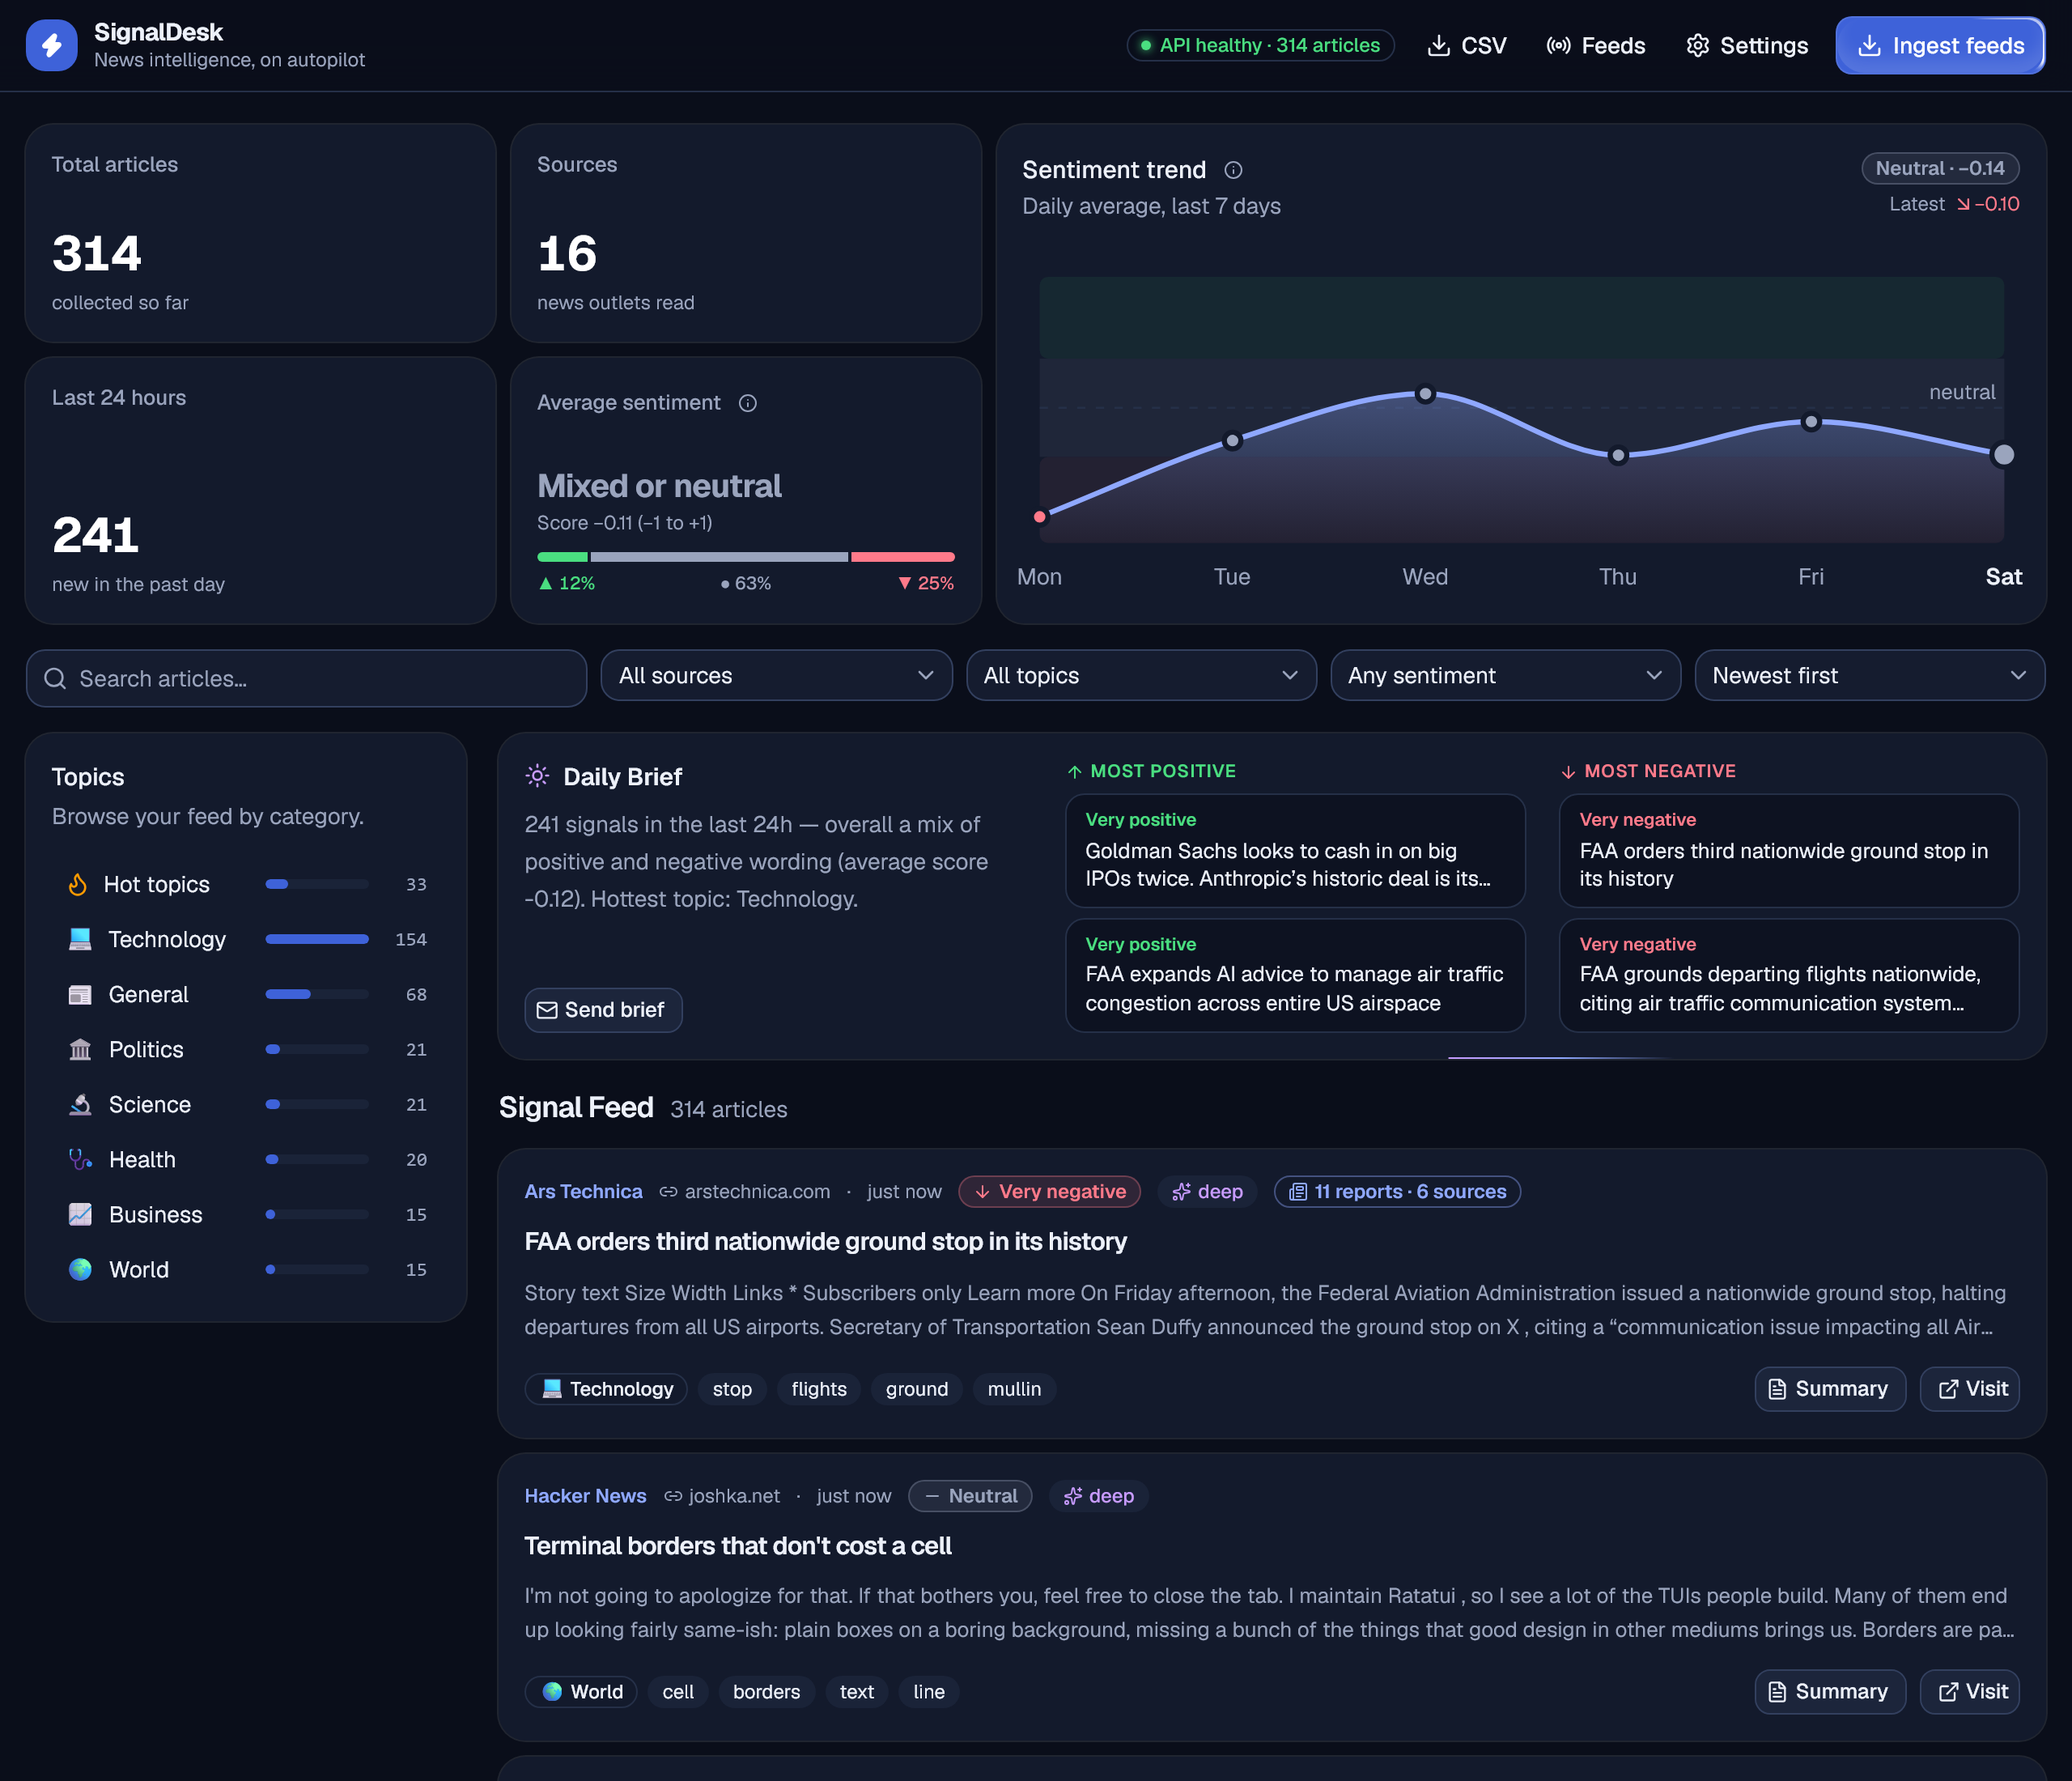
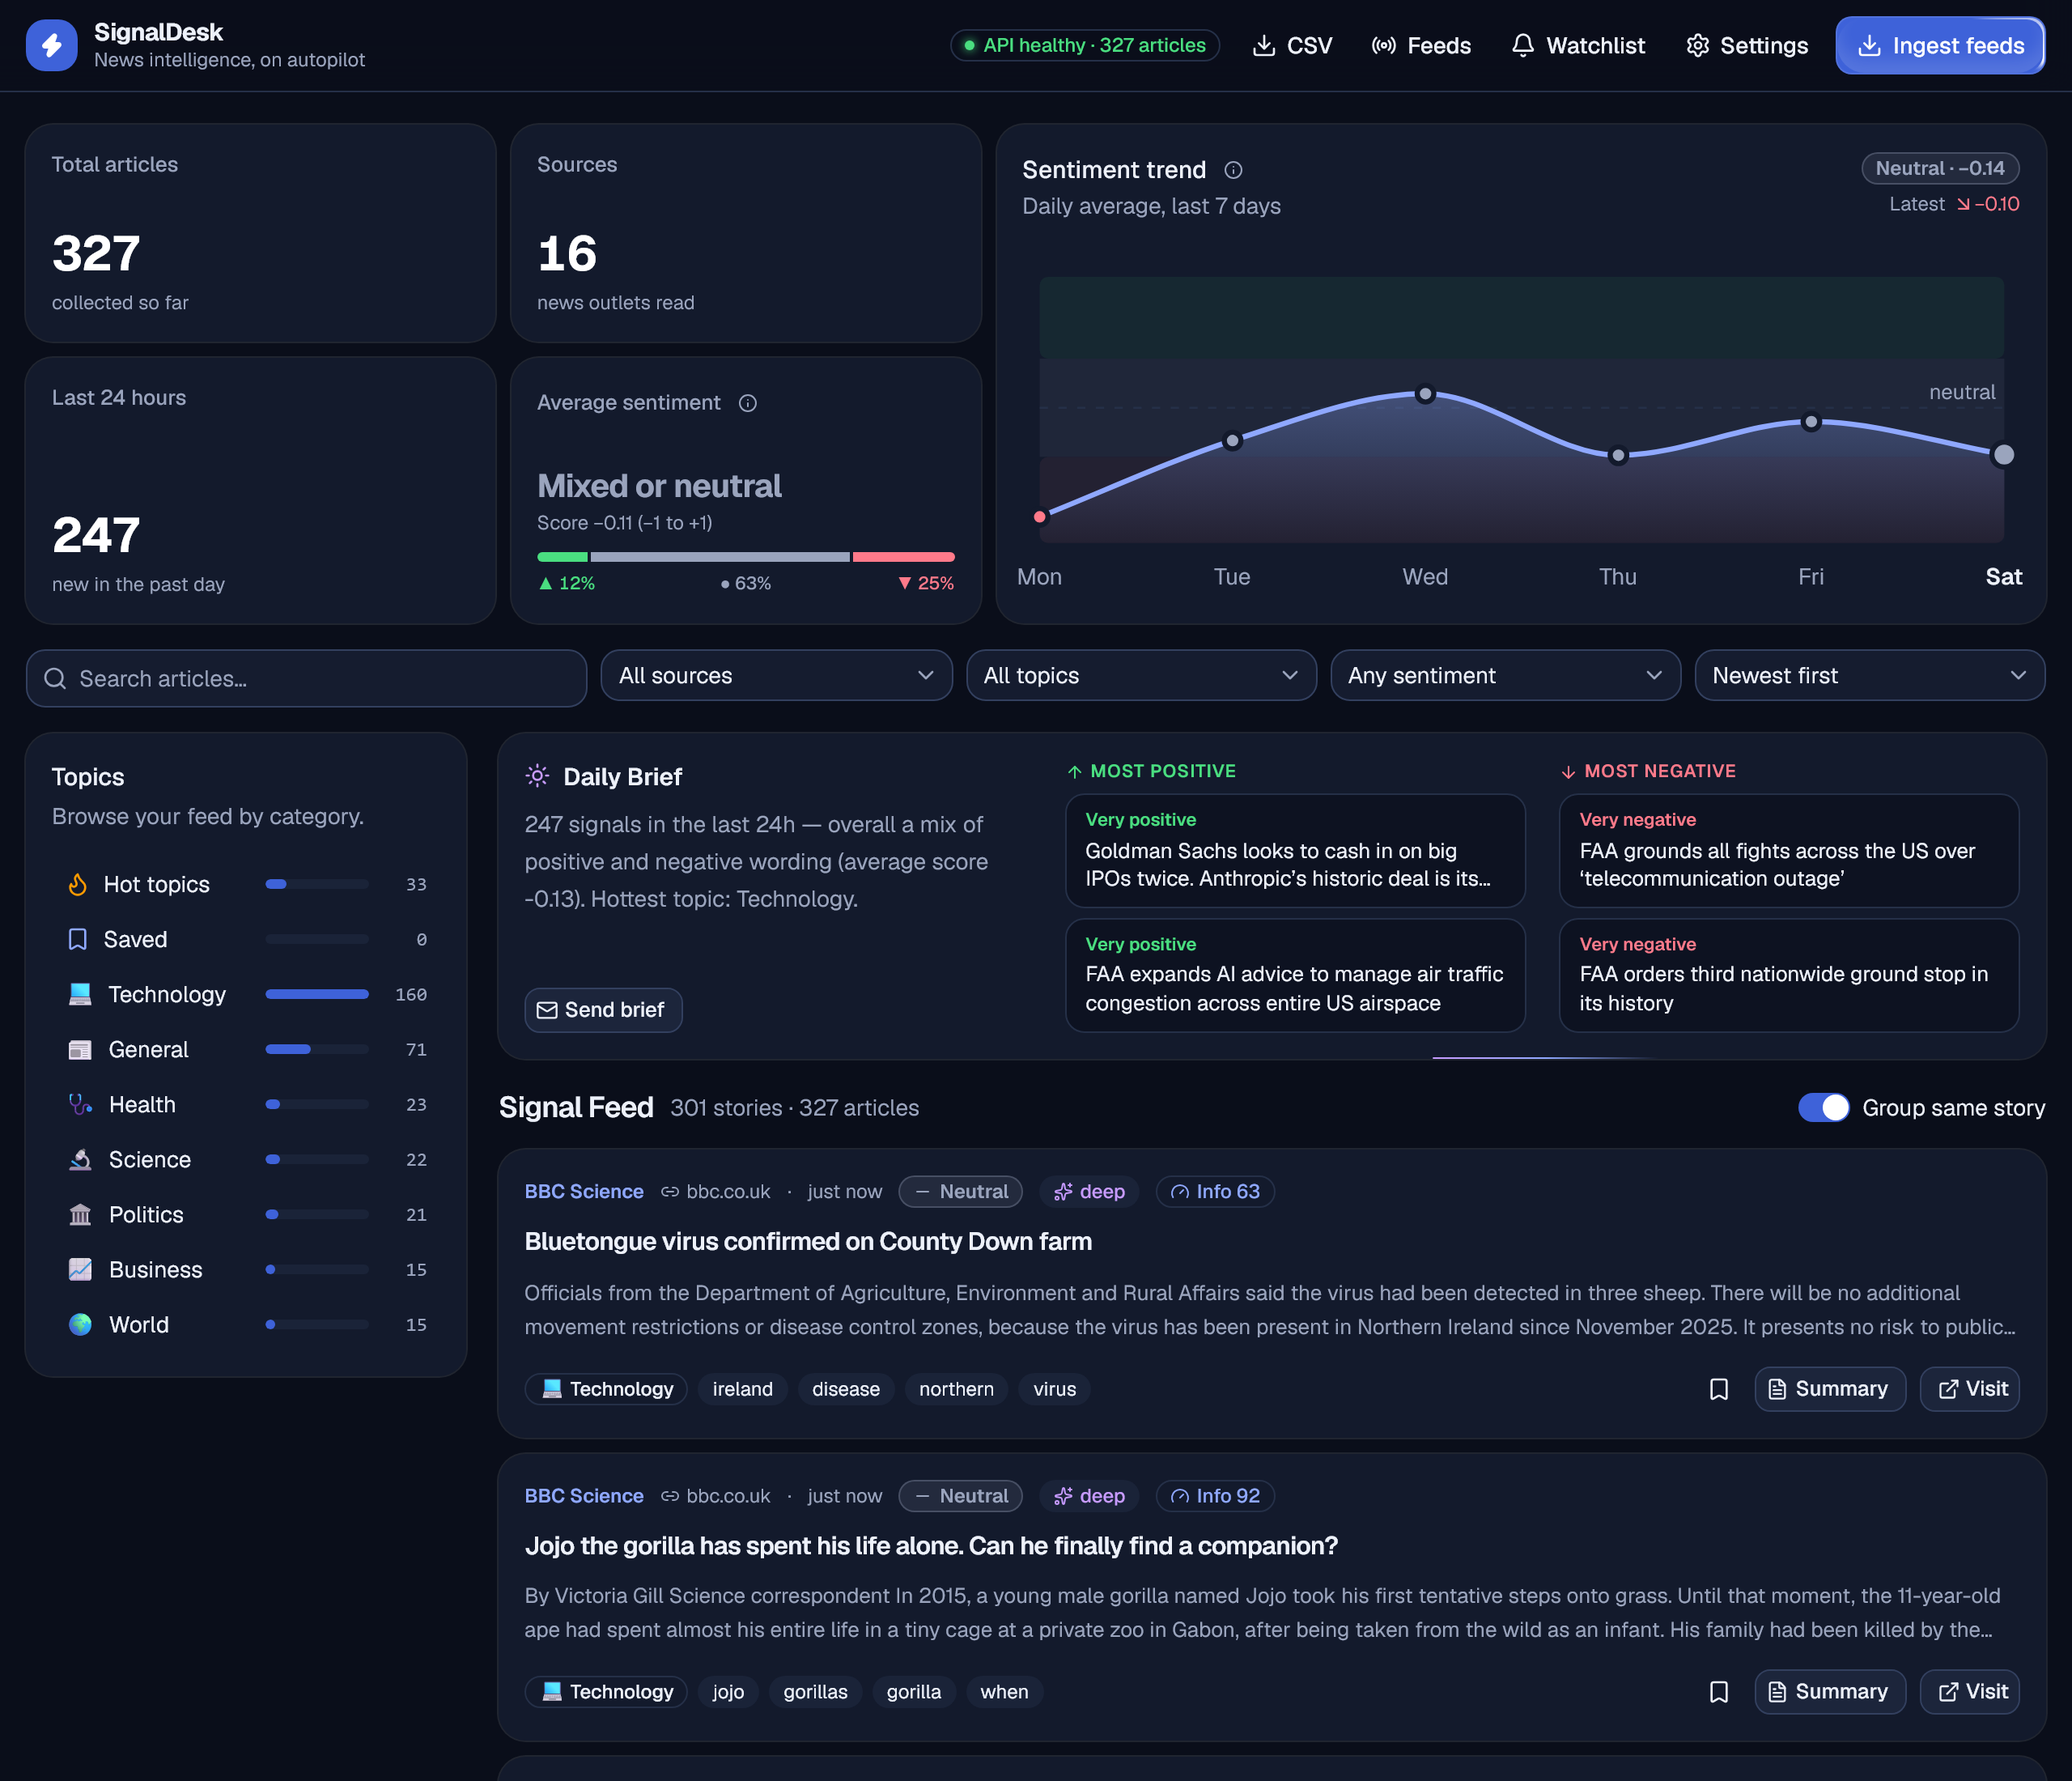
README and screenshots for stories, information score, story page, saved and watchlist

diff --git a/README.md b/README.md
@@ -3,13 +3,15 @@
 > **AI-powered news intelligence, on autopilot.**
 > SignalDesk pulls news from RSS feeds around the web, deduplicates it, scores sentiment, classifies topics, and surfaces it all in a real-time intelligence dashboard.
 
-![Status](https://img.shields.io/badge/status-production--grade-brightgreen) ![Python](https://img.shields.io/badge/python-3.12%2B-blue) ![FastAPI](https://img.shields.io/badge/FastAPI-latest-teal) ![React](https://img.shields.io/badge/React-19-61dafb) ![Tests](https://img.shields.io/badge/tests-72%20passing-brightgreen) ![License](https://img.shields.io/badge/license-MIT-lightgrey)
+![Status](https://img.shields.io/badge/status-production--grade-brightgreen) ![Python](https://img.shields.io/badge/python-3.12%2B-blue) ![FastAPI](https://img.shields.io/badge/FastAPI-latest-teal) ![React](https://img.shields.io/badge/React-19-61dafb) ![Tests](https://img.shields.io/badge/tests-122%20passing-brightgreen) ![License](https://img.shields.io/badge/license-MIT-lightgrey)
 
 ---
 
 ![SignalDesk dashboard](docs/screenshots/dashboard.png)
 
 ![SignalDesk mobile](docs/screenshots/mobile-dashboard.png)
+
+![A story: AI brief, outlet comparison and reports ranked by information](docs/screenshots/story.png)
 
 ---
 
@@ -42,7 +44,7 @@ And the platform runs itself: a built-in scheduler re-ingests every feed every 3
 | 🤖 **Auto-pilot scheduler** | Background task re-fetches every feed on a configurable interval; feeds report health status ("ok: 5 added · 2h ago") |
 | 📄 **Full-text summaries** | Each article's external link is fetched and parsed into a skimmable brief — TL;DR, key points, key numbers, quotes, and bottom line — so you get 90% of the story without opening the site |
 | 🖼 **Real lead images** | Each article's reader page shows the lead image (`og:image`) from its real page, and every card shows the story's true domain with a "verify at the source" link in the reader — a quick legitimacy check. Images are hotlinked and vanish cleanly if a site blocks them |
-| 📰 **Story clustering** | Headlines about the same event from different outlets are grouped automatically (word-overlap similarity within a time window). Cards show "3 reports · 2 sources"; click to see all coverage, and the reader lists "Also covered by" |
+| 📰 **Stories, best-informed first** | Reports of the same event from different outlets are grouped into one card (word-overlap similarity within a time window). The lead report is the one that carries the most real information, and the other reports sit under "N more reports" in the same order. A switch turns grouping off for a flat list |
 | 📖 **Article reader page** | Clicking an article opens a dedicated reader at `/#/article/{id}`: the straightforward summary up top, then skimmable sections (key points, numbers, quotes, bottom line) with chip navigation |
 | 🌗 **Light & dark themes** | Accessible triadic color system (blue/green/violet) with a settings menu — both themes verified WCAG AA programmatically |
 | 🌡 **Plain-language sentiment** | Scores read as "Very negative … Very positive" (number on hover), the reader has a labelled −1 / 0 / +1 gauge, and an ⓘ explainer says what sentiment does and does not mean |
@@ -61,9 +63,13 @@ And the platform runs itself: a built-in scheduler re-ingests every feed every 3
 | ✉ **Brief delivery** | Send the daily brief to Slack and/or email from the dashboard, or on a schedule (`DIGEST_HOUR`) |
 | 🔑 **Optional API token** | Set `API_TOKEN` to require `X-API-Key` on all write endpoints; the UI has a field for it |
 | 📡 **15 curated feeds** | BBC (World, Technology, Business, Science, Health), The Guardian, NPR, Al Jazeera, Politico, STAT News, CNBC, Ars Technica, ScienceDaily, The Verge and TechCrunch: free-to-read sources chosen for topic and viewpoint spread. One click adds any that are missing to an existing install |
+| 🎯 **Information score** | Every report gets an explainable 0–100 score: depth of the extracted article, figures, quotes and a conclusion, analysis, and completeness. It ignores which outlet wrote it, so it ranks fairly. Page furniture (navigation, paywall and credit lines) is stripped first, and a "Most informative" sort uses it |
+| 🧠 **Story page** | `#/story/:id` shows an AI **brief** (what everyone agrees on, where outlets differ; uses your LLM if configured, otherwise a deterministic offline writer), a side-by-side **outlet comparison** (info score, wording spread, first to report, most detailed) and every report ranked |
+| 🔖 **Saved & read** | Bookmark any article (Topics → Saved); read articles dim. Stored in your browser, no account |
+| 🔔 **Watchlist & alerts** | Follow a word or phrase (optionally a topic and a minimum number of outlets). Matching stories get a badge, you are told after an ingest, and alerts go to Slack/email if configured. Each story alerts once |
 | 🔥 **Hot topics** | A category in the Topics list (and the topic filter). It shows the articles from the stories the most outlets are covering right now, ranked by outlets × recency, with the stories listed above the feed so you can open any one of them |
 | 📄 **Numbered pages** | Page 1, 2, 3… navigation with a windowed page list instead of an endless "load more" |
-| ✅ **Tested** | 52 pytest tests, 20 Vitest tests, and GitHub Actions CI for both the backend and the frontend build |
+| ✅ **Tested** | 88 pytest tests, 34 Vitest tests, and GitHub Actions CI for both the backend and the frontend build |
 | 🐳 **One-container deploy** | `docker compose up --build` and you're done |
 
 ## Quick start
@@ -129,6 +135,10 @@ Interactive API docs live at **http://localhost:8000/docs** (Swagger UI).
 | `GET` | `/api/stats` | KPIs, sentiment split, topic breakdown, 7-day trend |
 | `GET` | `/api/trending` | Hot topics: the stories the most outlets cover right now |
 | `GET` | `/api/digest` | Generated daily brief: headline, extremes, topic counts |
+| `GET` | `/api/stories` | Grouped feed: one card per event, best-informed report first (same filters as articles, plus `ids=` and `order=info`) |
+| `GET` | `/api/stories/{id}` | One story in depth: brief, outlet comparison, ranked reports |
+| `POST` | `/api/stories/{id}/brief` | Rewrite the story brief now |
+| `GET` `POST` `PATCH` `DELETE` | `/api/watches` | The watchlist (writes need the API token when one is set) |
 | `GET` | `/api/articles` | Search/filter/sort/paginate articles (`cluster=<id>` shows one story, `hot=1` the hot stories) |
 | `GET` | `/api/articles/{id}` | Article detail (incl. keywords and `related` coverage of the same story) |
 | `POST` | `/api/articles/{id}/summarize` | Fetch the linked page and generate a clean full-text summary on demand |
@@ -169,6 +179,10 @@ SignalDesk/
 │   │   ├── llm.py           # Optional OpenAI-compatible analysis
 │   │   ├── notifications.py # Slack / SMTP brief delivery
 │   │   ├── clustering.py    # Groups duplicate coverage into stories
+│   │   ├── quality.py       # Information score (0-100) per report
+│   │   ├── stories.py       # Grouped feed, ranking inside a story, outlet comparison
+│   │   ├── briefs.py        # Story briefs: LLM writer + offline fallback
+│   │   ├── watches.py       # Watchlist matching and alerts
 │   │   ├── enrichment.py    # Full-text fetch + structured summaries
 │   │   ├── database.py      # Engine + sessions (SQLite → Postgres switchable)
 │   │   ├── models.py        # SQLAlchemy models (Article, Feed)
